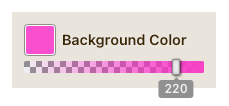
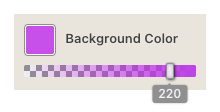
dark-theme

Changed region(s): [[0.0545, 0.1132, 0.9545, 0.934]]

diff --git a/dist/color-picker-iife.js b/dist/color-picker-iife.js
@@ -1,4 +1,4 @@
-(function(){"use strict";const o='*,*:before,*:after{margin:0;padding:0;box-sizing:border-box}:host{--clr-grad: #000;--min-height: clamp(.75rem, .5rem + 1vw, 2rem);--padding: .75rem;--picker-width: clamp(2rem, 1.5rem + 1vw, 5rem);--drop-shadow: 2px 2px 4px #0005;--output-arrow: 4px;container-type:inline-size;display:inline-grid;width:calc(100% - 2*var(--padding));padding:var(--padding);font-family:system-ui,sans-serif;font-size:var(--min-height);font-weight:600;line-height:1;color:#3b2702;background:#eae5dc}@supports (font-size:1cqi){:host{--min-height: clamp(.75rem, .5rem + 1.5cqi, 2rem);--padding: 2.5cqi;--picker-width: clamp(2rem, 1.5rem + 3cqi, 5rem);--drop-shadow: .3cqi .3cqi .6cqi #0005;--output-arrow: 1.5cqi}}.colorPicker{--dark-grey: #909090;--light-grey: #f0f0f4;display:inline-grid;grid-template-columns:var(--picker-width) auto;align-items:center;justify-items:flex-start;gap:.5em;gap:var(--padding);text-shadow:0 0 2px var(--light-grey)}input{cursor:pointer;background-color:transparent;-webkit-appearance:none;-moz-appearance:none;appearance:none}input,#picker-wrapper{outline-width:0;outline-color:#0000;transition:outline .25s ease-in-out}input:focus{outline:none}input:focus-visible,#picker-wrapper:has(:focus-within):has(:focus-visible){outline-width:max(1px,.43em);outline-style:auto;outline-color:Highlight;outline-color:-webkit-focus-ring-color;outline-offset:.2em}input[type=color]{inline-size:var(--picker-width);block-size:var(--picker-width);border:0;opacity:0;pointer-events:initial}input[type=color]::-webkit-color-swatch-wrapper{padding:0;margin:0;border:0}input[type=color]::-webkit-color-swatch{border:none}input[type=color]::-moz-color-swatch{border:none}label{text-wrap:nowrap}#picker-wrapper{--rad: 4px;--marg: 2px;inline-size:var(--picker-width);block-size:var(--picker-width);position:relative;pointer-events:none;border-radius:var(--rad)}#picker-wrapper:before,#picker-wrapper:after{content:"";position:absolute;top:0;right:0;bottom:0;left:0;pointer-events:none}#picker-wrapper:before{background:#fff;border:1px solid var(--dark-grey);border-radius:var(--rad)}#picker-wrapper:after{background:var(--clr, #000);margin:var(--marg);border-radius:calc(var(--rad) - var(--marg))}#slider-wrapper{--thumb-h: calc(var(--min-height)*4/3);grid-column:1/-1;width:100%;position:relative}input[type=range]{width:100%}input[type=range]::-webkit-slider-runnable-track{box-sizing:border-box;-webkit-appearance:none;-moz-appearance:none;appearance:none;height:var(--min-height);border-radius:2px;background-image:linear-gradient(to right,transparent,var(--clr-grad, #000)),repeating-conic-gradient(var(--light-grey) 0 90deg,var(--dark-grey) 90deg 180deg);background-size:100%,var(--min-height) var(--min-height)}input[type=range]::-webkit-slider-thumb{box-sizing:border-box;-webkit-appearance:none;-moz-appearance:none;appearance:none;height:var(--thumb-h);width:calc(var(--thumb-h)/2);margin-block-start:calc(.5 * (var(--min-height) - var(--thumb-h)));border:none;border-radius:2px;background:var(--light-grey);box-shadow:0 0 4px var(--dark-grey) inset,0 0 0 1px var(--dark-grey) inset,1px 1px 3px #111c,0 0 1px #0d0d0d;cursor:ew-resize}input[type=range]::-moz-range-track{-webkit-appearance:none;-moz-appearance:none;appearance:none;height:var(--min-height);border-radius:2px;background-image:linear-gradient(to right,transparent,var(--clr-grad, #000)),repeating-conic-gradient(var(--light-grey) 0 90deg,var(--dark-grey) 90deg 180deg);background-size:100%,var(--min-height) var(--min-height)}input[type=range]::-moz-range-thumb{-webkit-appearance:none;-moz-appearance:none;appearance:none;width:calc(var(--thumb-h)/2);height:var(--thumb-h);border:none;border-radius:2px;background:var(--light-grey);box-shadow:0 0 0 1px var(--dark-grey) inset,1px 1px 3px #111,0 0 1px #0d0d0d;cursor:ew-resize}input[type=range]:hover+output,input[type=range]:focus+output{opacity:1;top:130%;filter:drop-shadow(var(--drop-shadow))}output{position:absolute;display:grid;place-content:center;background:var(--dark-grey);left:calc((var(--slider-val) * 1%) + ((50 - var(--slider-val))/100)*8px);top:200%;transform:translate(-50%);padding:.25em .5em;min-width:4ch;line-height:1;color:var(--light-grey);font-size:max(12px,.75em);text-shadow:none;border-radius:.25em;pointer-events:none;opacity:0;z-index:100;filter:drop-shadow(0 0 0 #0000);transition:filter .4s cubic-bezier(.4,0,.2,1),opacity .4s cubic-bezier(.4,0,.2,1),top .4s cubic-bezier(.4,0,.2,1)}output:after{content:"";position:absolute;width:var(--output-arrow);aspect-ratio:1;background:inherit;left:50%;top:0;transform:translate(-50%,-50%) rotate(45deg)}',a=document.createElement("template");a.innerHTML=`
+(function(){"use strict";const o='*,*:before,*:after{margin:0;padding:0;box-sizing:border-box}:host{--min-height: clamp(.75rem, .5rem + 1vw, 2rem);--padding: .75em;--picker-width: clamp(2rem, 1.5rem + 1vw, 5rem);--drop-shadow: 2px 2px 4px #0005;--output-arrow: 4px;--clr-grad: #000;--clr-base: #eae5dc;--dark-grey: #909090;--light-grey: #f0f0f4;color-scheme:light dark;container-type:inline-size;display:inline-grid;width:calc(100% - 2*var(--padding));padding:var(--padding);font-family:system-ui,sans-serif;font-size:var(--min-height);font-weight:600;line-height:1;color:color-mix(in oklch,var(--clr-base),black 60%);text-shadow:0 0 2px var(--light-grey);background:var(--clr-base)}@supports (font-size:1cqi){:host{--min-height: clamp(.75rem, .5rem + 1.5cqi, 2rem);--picker-width: clamp(2rem, 1.5rem + 3cqi, 5rem);--drop-shadow: .3cqi .3cqi .6cqi #0005;--output-arrow: 1.5cqi}}@media (prefers-color-scheme: dark){:host{--dark-grey: #f0f0f4;--light-grey: #909090;color:var(--clr-base);background:color-mix(in oklch,var(--clr-base),black 60%)}}.colorPicker{display:inline-grid;grid-template-columns:var(--picker-width) auto;align-items:center;justify-items:flex-start;gap:var(--padding)}input{cursor:pointer;background-color:transparent;-webkit-appearance:none;-moz-appearance:none;appearance:none}input,#picker-wrapper{outline-width:0;outline-color:#0000;transition:outline .25s ease-in-out}input:focus{outline:none}input:focus-visible,#picker-wrapper:has(:focus-within):has(:focus-visible){outline-width:max(1px,.43em);outline-style:auto;outline-color:Highlight;outline-color:-webkit-focus-ring-color;outline-offset:.2em}input[type=color]{inline-size:var(--picker-width);block-size:var(--picker-width);border:0;opacity:0;pointer-events:initial}input[type=color]::-webkit-color-swatch-wrapper{padding:0;margin:0;border:0}input[type=color]::-webkit-color-swatch{border:none}input[type=color]::-moz-color-swatch{border:none}label{text-wrap:nowrap}#picker-wrapper{--rad: 4px;--marg: 2px;inline-size:var(--picker-width);block-size:var(--picker-width);position:relative;pointer-events:none;border-radius:var(--rad)}#picker-wrapper:before,#picker-wrapper:after{content:"";position:absolute;top:0;right:0;bottom:0;left:0;pointer-events:none}#picker-wrapper:before{background:#fff;border:1px solid var(--dark-grey);border-radius:var(--rad)}#picker-wrapper:after{background:var(--clr, #000);margin:var(--marg);border-radius:calc(var(--rad) - var(--marg))}#slider-wrapper{--thumb-h: calc(var(--min-height)*4/3);grid-column:1/-1;width:100%;position:relative}input[type=range]{width:100%}input[type=range]::-webkit-slider-runnable-track{box-sizing:border-box;-webkit-appearance:none;-moz-appearance:none;appearance:none;height:var(--min-height);border-radius:2px;background-image:linear-gradient(to right,transparent,var(--clr-grad, #000)),repeating-conic-gradient(var(--light-grey) 0 90deg,var(--dark-grey) 90deg 180deg);background-size:100%,var(--min-height) var(--min-height)}input[type=range]::-webkit-slider-thumb{box-sizing:border-box;-webkit-appearance:none;-moz-appearance:none;appearance:none;height:var(--thumb-h);width:calc(var(--thumb-h)/2);margin-block-start:calc(.5 * (var(--min-height) - var(--thumb-h)));border:none;border-radius:2px;background:var(--light-grey);box-shadow:0 0 4px var(--dark-grey) inset,0 0 0 1px var(--dark-grey) inset,1px 1px 3px #111c,0 0 1px #0d0d0d;cursor:ew-resize}input[type=range]::-moz-range-track{-webkit-appearance:none;-moz-appearance:none;appearance:none;height:var(--min-height);border-radius:2px;background-image:linear-gradient(to right,transparent,var(--clr-grad, #000)),repeating-conic-gradient(var(--light-grey) 0 90deg,var(--dark-grey) 90deg 180deg);background-size:100%,var(--min-height) var(--min-height)}input[type=range]::-moz-range-thumb{-webkit-appearance:none;-moz-appearance:none;appearance:none;width:calc(var(--thumb-h)/2);height:var(--thumb-h);border:none;border-radius:2px;background:var(--light-grey);box-shadow:0 0 0 1px var(--dark-grey) inset,1px 1px 3px #111,0 0 1px #0d0d0d;cursor:ew-resize}input[type=range]:hover+output,input[type=range]:focus+output{opacity:1;top:130%;filter:drop-shadow(var(--drop-shadow))}output{position:absolute;display:grid;place-content:center;background:var(--dark-grey);left:calc((var(--slider-val) * 1%) + ((50 - var(--slider-val))/100)*8px);top:200%;transform:translate(-50%);padding:.25em .5em;min-width:4ch;line-height:1;color:var(--light-grey);font-size:max(12px,.75em);text-shadow:none;border-radius:.25em;pointer-events:none;opacity:0;z-index:100;filter:drop-shadow(0 0 0 #0000);transition:filter .4s cubic-bezier(.4,0,.2,1),opacity .4s cubic-bezier(.4,0,.2,1),top .4s cubic-bezier(.4,0,.2,1)}output:after{content:"";position:absolute;width:var(--output-arrow);aspect-ratio:1;background:inherit;left:50%;top:0;transform:translate(-50%,-50%) rotate(45deg)}',a=document.createElement("template");a.innerHTML=`
 <div class="colorPicker">
     <div id="picker-wrapper">
         <input type="color" id="picker">

diff --git a/dist/color-picker-es.js b/dist/color-picker-es.js
@@ -1,4 +1,4 @@
-const n='*,*:before,*:after{margin:0;padding:0;box-sizing:border-box}:host{--clr-grad: #000;--min-height: clamp(.75rem, .5rem + 1vw, 2rem);--padding: .75rem;--picker-width: clamp(2rem, 1.5rem + 1vw, 5rem);--drop-shadow: 2px 2px 4px #0005;--output-arrow: 4px;container-type:inline-size;display:inline-grid;width:calc(100% - 2*var(--padding));padding:var(--padding);font-family:system-ui,sans-serif;font-size:var(--min-height);font-weight:600;line-height:1;color:#3b2702;background:#eae5dc}@supports (font-size:1cqi){:host{--min-height: clamp(.75rem, .5rem + 1.5cqi, 2rem);--padding: 2.5cqi;--picker-width: clamp(2rem, 1.5rem + 3cqi, 5rem);--drop-shadow: .3cqi .3cqi .6cqi #0005;--output-arrow: 1.5cqi}}.colorPicker{--dark-grey: #909090;--light-grey: #f0f0f4;display:inline-grid;grid-template-columns:var(--picker-width) auto;align-items:center;justify-items:flex-start;gap:.5em;gap:var(--padding);text-shadow:0 0 2px var(--light-grey)}input{cursor:pointer;background-color:transparent;-webkit-appearance:none;-moz-appearance:none;appearance:none}input,#picker-wrapper{outline-width:0;outline-color:#0000;transition:outline .25s ease-in-out}input:focus{outline:none}input:focus-visible,#picker-wrapper:has(:focus-within):has(:focus-visible){outline-width:max(1px,.43em);outline-style:auto;outline-color:Highlight;outline-color:-webkit-focus-ring-color;outline-offset:.2em}input[type=color]{inline-size:var(--picker-width);block-size:var(--picker-width);border:0;opacity:0;pointer-events:initial}input[type=color]::-webkit-color-swatch-wrapper{padding:0;margin:0;border:0}input[type=color]::-webkit-color-swatch{border:none}input[type=color]::-moz-color-swatch{border:none}label{text-wrap:nowrap}#picker-wrapper{--rad: 4px;--marg: 2px;inline-size:var(--picker-width);block-size:var(--picker-width);position:relative;pointer-events:none;border-radius:var(--rad)}#picker-wrapper:before,#picker-wrapper:after{content:"";position:absolute;top:0;right:0;bottom:0;left:0;pointer-events:none}#picker-wrapper:before{background:#fff;border:1px solid var(--dark-grey);border-radius:var(--rad)}#picker-wrapper:after{background:var(--clr, #000);margin:var(--marg);border-radius:calc(var(--rad) - var(--marg))}#slider-wrapper{--thumb-h: calc(var(--min-height)*4/3);grid-column:1/-1;width:100%;position:relative}input[type=range]{width:100%}input[type=range]::-webkit-slider-runnable-track{box-sizing:border-box;-webkit-appearance:none;-moz-appearance:none;appearance:none;height:var(--min-height);border-radius:2px;background-image:linear-gradient(to right,transparent,var(--clr-grad, #000)),repeating-conic-gradient(var(--light-grey) 0 90deg,var(--dark-grey) 90deg 180deg);background-size:100%,var(--min-height) var(--min-height)}input[type=range]::-webkit-slider-thumb{box-sizing:border-box;-webkit-appearance:none;-moz-appearance:none;appearance:none;height:var(--thumb-h);width:calc(var(--thumb-h)/2);margin-block-start:calc(.5 * (var(--min-height) - var(--thumb-h)));border:none;border-radius:2px;background:var(--light-grey);box-shadow:0 0 4px var(--dark-grey) inset,0 0 0 1px var(--dark-grey) inset,1px 1px 3px #111c,0 0 1px #0d0d0d;cursor:ew-resize}input[type=range]::-moz-range-track{-webkit-appearance:none;-moz-appearance:none;appearance:none;height:var(--min-height);border-radius:2px;background-image:linear-gradient(to right,transparent,var(--clr-grad, #000)),repeating-conic-gradient(var(--light-grey) 0 90deg,var(--dark-grey) 90deg 180deg);background-size:100%,var(--min-height) var(--min-height)}input[type=range]::-moz-range-thumb{-webkit-appearance:none;-moz-appearance:none;appearance:none;width:calc(var(--thumb-h)/2);height:var(--thumb-h);border:none;border-radius:2px;background:var(--light-grey);box-shadow:0 0 0 1px var(--dark-grey) inset,1px 1px 3px #111,0 0 1px #0d0d0d;cursor:ew-resize}input[type=range]:hover+output,input[type=range]:focus+output{opacity:1;top:130%;filter:drop-shadow(var(--drop-shadow))}output{position:absolute;display:grid;place-content:center;background:var(--dark-grey);left:calc((var(--slider-val) * 1%) + ((50 - var(--slider-val))/100)*8px);top:200%;transform:translate(-50%);padding:.25em .5em;min-width:4ch;line-height:1;color:var(--light-grey);font-size:max(12px,.75em);text-shadow:none;border-radius:.25em;pointer-events:none;opacity:0;z-index:100;filter:drop-shadow(0 0 0 #0000);transition:filter .4s cubic-bezier(.4,0,.2,1),opacity .4s cubic-bezier(.4,0,.2,1),top .4s cubic-bezier(.4,0,.2,1)}output:after{content:"";position:absolute;width:var(--output-arrow);aspect-ratio:1;background:inherit;left:50%;top:0;transform:translate(-50%,-50%) rotate(45deg)}',a=document.createElement("template");a.innerHTML=`
+const n='*,*:before,*:after{margin:0;padding:0;box-sizing:border-box}:host{--min-height: clamp(.75rem, .5rem + 1vw, 2rem);--padding: .75em;--picker-width: clamp(2rem, 1.5rem + 1vw, 5rem);--drop-shadow: 2px 2px 4px #0005;--output-arrow: 4px;--clr-grad: #000;--clr-base: #eae5dc;--dark-grey: #909090;--light-grey: #f0f0f4;color-scheme:light dark;container-type:inline-size;display:inline-grid;width:calc(100% - 2*var(--padding));padding:var(--padding);font-family:system-ui,sans-serif;font-size:var(--min-height);font-weight:600;line-height:1;color:color-mix(in oklch,var(--clr-base),black 60%);text-shadow:0 0 2px var(--light-grey);background:var(--clr-base)}@supports (font-size:1cqi){:host{--min-height: clamp(.75rem, .5rem + 1.5cqi, 2rem);--picker-width: clamp(2rem, 1.5rem + 3cqi, 5rem);--drop-shadow: .3cqi .3cqi .6cqi #0005;--output-arrow: 1.5cqi}}@media (prefers-color-scheme: dark){:host{--dark-grey: #f0f0f4;--light-grey: #909090;color:var(--clr-base);background:color-mix(in oklch,var(--clr-base),black 60%)}}.colorPicker{display:inline-grid;grid-template-columns:var(--picker-width) auto;align-items:center;justify-items:flex-start;gap:var(--padding)}input{cursor:pointer;background-color:transparent;-webkit-appearance:none;-moz-appearance:none;appearance:none}input,#picker-wrapper{outline-width:0;outline-color:#0000;transition:outline .25s ease-in-out}input:focus{outline:none}input:focus-visible,#picker-wrapper:has(:focus-within):has(:focus-visible){outline-width:max(1px,.43em);outline-style:auto;outline-color:Highlight;outline-color:-webkit-focus-ring-color;outline-offset:.2em}input[type=color]{inline-size:var(--picker-width);block-size:var(--picker-width);border:0;opacity:0;pointer-events:initial}input[type=color]::-webkit-color-swatch-wrapper{padding:0;margin:0;border:0}input[type=color]::-webkit-color-swatch{border:none}input[type=color]::-moz-color-swatch{border:none}label{text-wrap:nowrap}#picker-wrapper{--rad: 4px;--marg: 2px;inline-size:var(--picker-width);block-size:var(--picker-width);position:relative;pointer-events:none;border-radius:var(--rad)}#picker-wrapper:before,#picker-wrapper:after{content:"";position:absolute;top:0;right:0;bottom:0;left:0;pointer-events:none}#picker-wrapper:before{background:#fff;border:1px solid var(--dark-grey);border-radius:var(--rad)}#picker-wrapper:after{background:var(--clr, #000);margin:var(--marg);border-radius:calc(var(--rad) - var(--marg))}#slider-wrapper{--thumb-h: calc(var(--min-height)*4/3);grid-column:1/-1;width:100%;position:relative}input[type=range]{width:100%}input[type=range]::-webkit-slider-runnable-track{box-sizing:border-box;-webkit-appearance:none;-moz-appearance:none;appearance:none;height:var(--min-height);border-radius:2px;background-image:linear-gradient(to right,transparent,var(--clr-grad, #000)),repeating-conic-gradient(var(--light-grey) 0 90deg,var(--dark-grey) 90deg 180deg);background-size:100%,var(--min-height) var(--min-height)}input[type=range]::-webkit-slider-thumb{box-sizing:border-box;-webkit-appearance:none;-moz-appearance:none;appearance:none;height:var(--thumb-h);width:calc(var(--thumb-h)/2);margin-block-start:calc(.5 * (var(--min-height) - var(--thumb-h)));border:none;border-radius:2px;background:var(--light-grey);box-shadow:0 0 4px var(--dark-grey) inset,0 0 0 1px var(--dark-grey) inset,1px 1px 3px #111c,0 0 1px #0d0d0d;cursor:ew-resize}input[type=range]::-moz-range-track{-webkit-appearance:none;-moz-appearance:none;appearance:none;height:var(--min-height);border-radius:2px;background-image:linear-gradient(to right,transparent,var(--clr-grad, #000)),repeating-conic-gradient(var(--light-grey) 0 90deg,var(--dark-grey) 90deg 180deg);background-size:100%,var(--min-height) var(--min-height)}input[type=range]::-moz-range-thumb{-webkit-appearance:none;-moz-appearance:none;appearance:none;width:calc(var(--thumb-h)/2);height:var(--thumb-h);border:none;border-radius:2px;background:var(--light-grey);box-shadow:0 0 0 1px var(--dark-grey) inset,1px 1px 3px #111,0 0 1px #0d0d0d;cursor:ew-resize}input[type=range]:hover+output,input[type=range]:focus+output{opacity:1;top:130%;filter:drop-shadow(var(--drop-shadow))}output{position:absolute;display:grid;place-content:center;background:var(--dark-grey);left:calc((var(--slider-val) * 1%) + ((50 - var(--slider-val))/100)*8px);top:200%;transform:translate(-50%);padding:.25em .5em;min-width:4ch;line-height:1;color:var(--light-grey);font-size:max(12px,.75em);text-shadow:none;border-radius:.25em;pointer-events:none;opacity:0;z-index:100;filter:drop-shadow(0 0 0 #0000);transition:filter .4s cubic-bezier(.4,0,.2,1),opacity .4s cubic-bezier(.4,0,.2,1),top .4s cubic-bezier(.4,0,.2,1)}output:after{content:"";position:absolute;width:var(--output-arrow);aspect-ratio:1;background:inherit;left:50%;top:0;transform:translate(-50%,-50%) rotate(45deg)}',a=document.createElement("template");a.innerHTML=`
 <div class="colorPicker">
     <div id="picker-wrapper">
         <input type="color" id="picker">

diff --git a/css/color-picker.css b/css/color-picker.css
@@ -8,13 +8,15 @@
 
 :host {
     --min-height: clamp(.75rem, .5rem + 1vw, 2rem);
-    --padding: .75rem;
+    --padding: .75em;
     --picker-width: clamp(2rem, 1.5rem + 1vw, 5rem);
     --drop-shadow: 2px 2px 4px #0005;
     --output-arrow: 4px;
     --clr-grad: #000;
+    --clr-base: #eae5dc;
     --dark-grey: #909090;
     --light-grey: #f0f0f4;
+    color-scheme: light dark;
     container-type: inline-size;
     display: inline-grid;
     width: calc(100% - 2*var(--padding));
@@ -23,19 +25,28 @@
     font-size: var(--min-height);
     font-weight: 600;
     line-height: 1;
-    color: #3b2702;
+    color: color-mix(in oklch, var(--clr-base), black 60%);
     text-shadow: 0 0 2px var(--light-grey);
-    background: #eae5dc;
+    background: var(--clr-base);
 
     @supports(font-size:1cqi) {
     /*
     All container queries units values are grouped here to supersede fallback values
     */
         --min-height: clamp(.75rem, .5rem + 1.5cqi, 2rem);
-        --padding: 2.5cqi;
         --picker-width: clamp(2rem, 1.5rem + 3cqi, 5rem);
         --drop-shadow: .3cqi .3cqi .6cqi #0005;
         --output-arrow: 1.5cqi;
+    }
+}
+
+@media (prefers-color-scheme: dark) {
+    :host{
+        --dark-grey: #f0f0f4;
+        --light-grey: #909090;
+
+        color: var(--clr-base);
+        background: color-mix(in oklch, var(--clr-base), black 60%);
     }
 }
 
@@ -44,7 +55,6 @@
     grid-template-columns: var(--picker-width) auto;
     align-items: center;
     justify-items: flex-start;
-    gap: .5em;
     gap: var(--padding);
 }
 

diff --git a/scss/style.scss b/scss/style.scss
@@ -3,9 +3,7 @@
   line-height: 1.5;
   font-weight: 400;
 
-  color-scheme: light dark;
-  color: rgba(255, 255, 255, 0.87);
-  background-color: #242424;
+  background-color: #fff;
 
   font-synthesis: none;
   text-rendering: optimizeLegibility;
@@ -22,7 +20,7 @@ body {
 }
 
 #app {
-  width: clamp(12rem, 55vw, 960px);
+  width: clamp(16rem, 55vw, 960px);
 }
 
 #box-wrap{
@@ -48,17 +46,4 @@ body {
   background: #fff;
   padding: .5em .75em;
   mix-blend-mode: lighten;
-}
-
-@media (prefers-color-scheme: light) {
-  :root {
-    color: #213547;
-    background-color: #ffffff;
-  }
-  a:hover {
-    color: #747bff;
-  }
-  button {
-    background-color: #f9f9f9;
-  }
 }
